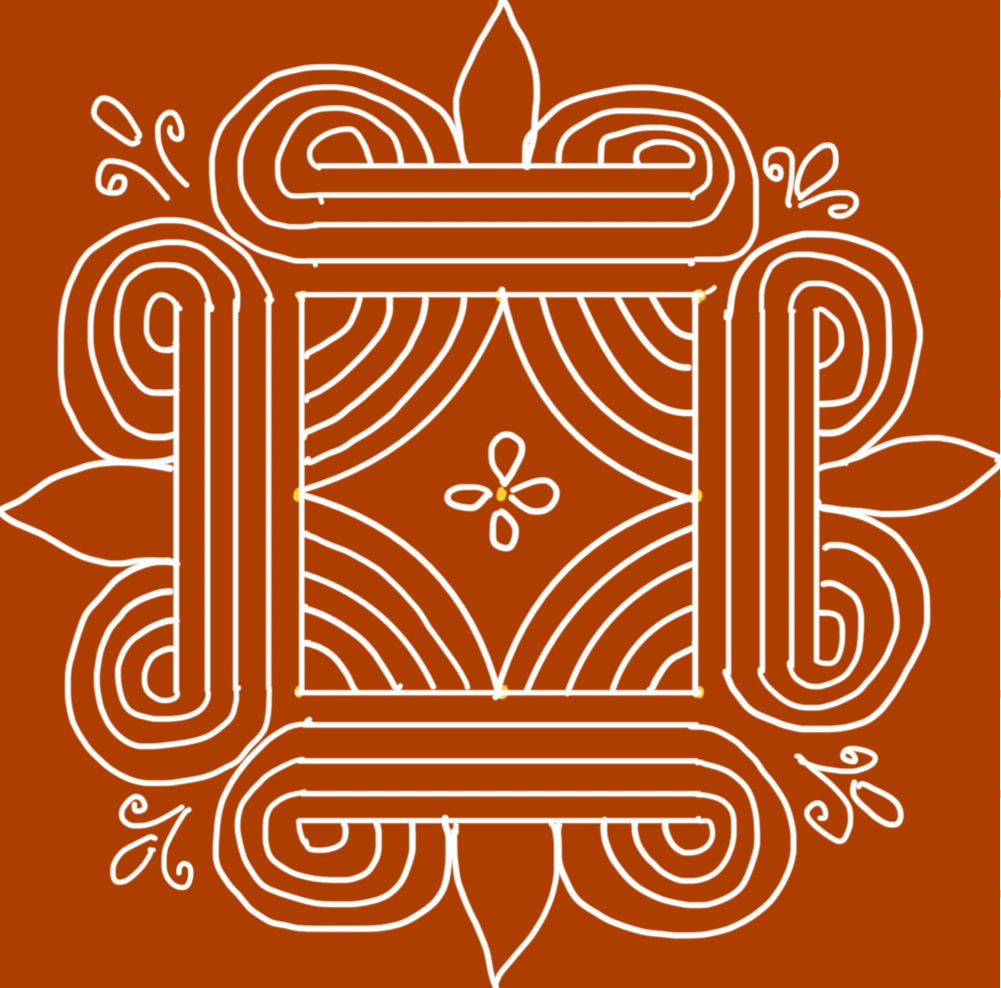
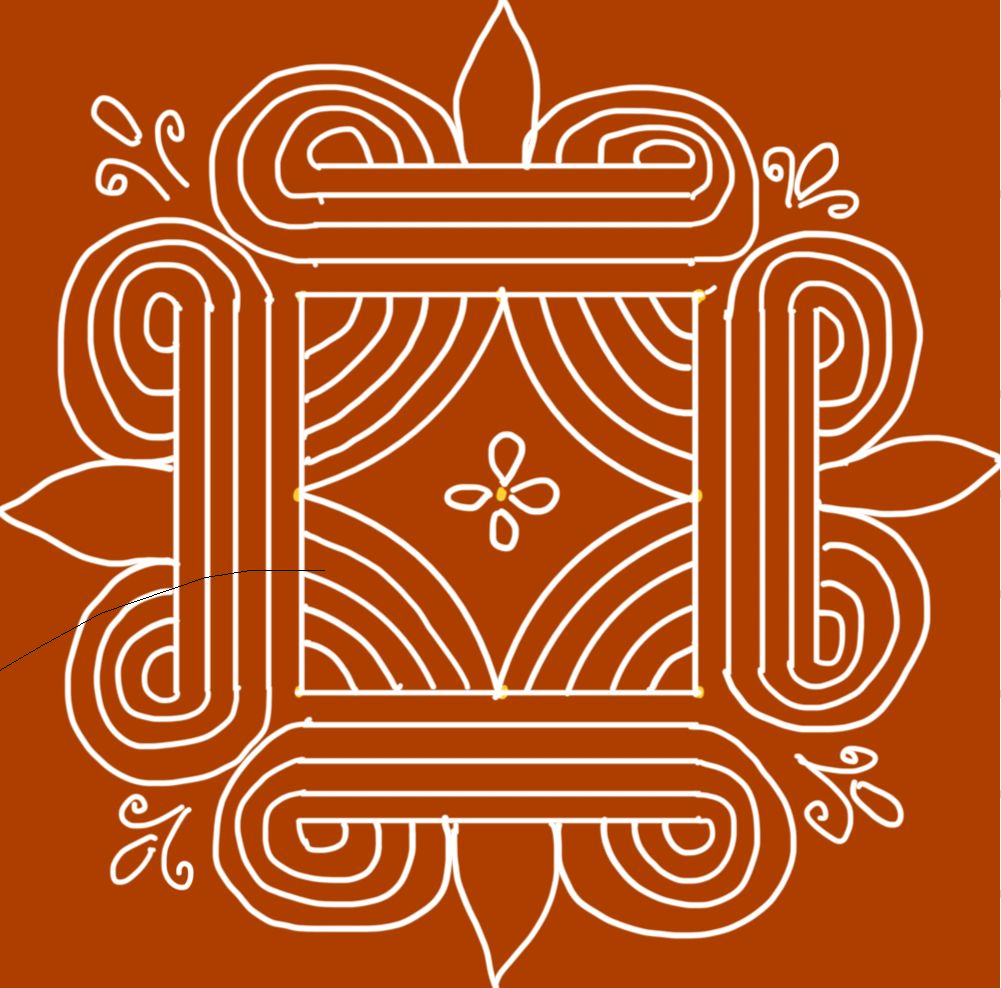
changed some order

Changed region(s): [[0.991, 0.4555, 1.0, 0.4858], [0.0929, 0.6073, 0.1239, 0.6377]]

diff --git a/Rangoli/about.html b/Rangoli/about.html
@@ -1,0 +1,47 @@
+<!DOCTYPE html>
+<html lang="en">
+<head>
+    <meta charset="UTF-8">
+    <meta name="viewport" content="width=device-width, initial-scale=1.0">
+    <title>Document</title>
+    
+    <link rel="stylesheet" href="about.css">
+    <link rel="stylesheet" href="style_nav.css" />
+   <link rel="stylesheet" href="https://fonts.googleapis.com/css2?family=Material+Symbols+Rounded:opsz,wght,FILL,GRAD@24,400,0,0" />
+   <script src="https://ajax.googleapis.com/ajax/libs/jquery/3.5.1/jquery.min.js"></script>
+</head>
+<body>
+    
+    <div id="nav-placeholder"></div>
+  
+    
+    <script>
+      $.get("navigation.html", function(data){
+        $("#nav-placeholder").replaceWith(data);
+      });
+    </script> 
+
+    <p>Muggu is an art form, in which patterns are created on the floor. 'Muggulu'<em>(plural form)</em> is a term used by people from a state called AndhraPradesh, India. Each state uses a different name for the floor art in their own language. <em><u>Click on the different states in the MAP below to see what a floor art is called in that particular state.</u></em> I prefer to use word  'Muggulu' or 'Kolam' in my website, as I am from  Southern part of  India. </p>
+    <div class="map-container">
+    <div class="header active"><h1>Muggulu</h1></div>
+    <div class="img-container"><img src="images/india-outline-map1.png" alt="india-outline-map" usemap="#indiamap" width="400" height="430" id="map"></div>
+    <map name="indiamap">
+        <area shape="poly" coords="145,254,162,259,168,270,196,285,218,265,202,288,190,300,165,311,165,350,137,345,126,325,130,300,130,276,145,254" target="Muggulu" href="AP" id="AP">
+        <area shape="poly" coords="64,247,78,226,113,236,160,228,172,251,163,260,131,272,107,290,84,308,74,315,66,288,63,267,64,247" target="Rangoli/ Sanskarbharti/ Bharti" title="Rangoli" href="maharashtra" id="Maharashtra">
+        <area shape="poly" coords="82,319,102,290,130,275,132,309,145,360,116,376,102,369,82,333,82,319" target="Rangoli" id="Karnataka">
+        <area shape="poly" coords="114,378,137,371,172,348,168,393,129,427,114,378" target="kolam" id="Tamilnadu">
+        <area shape="poly" coords="22,154,59,128,76,109,109,135,132,151,127,172,89,205,60,186,42,186,22,154" target="Mandana" id="Rajasthan">
+        <area shape="poly" coords="284,148,274,150,270,160,278,165,280,185,280,195,287,220,257,211,244,205,267,175,267,150,284,148" target="Alpana/ Alpona" id="WestBengal">
+        <area shape="poly" coords="212,142,245,150,266,152,264,168,263,187,243,196,254,208,236,212,220,210,209,190,213,166,212,142" target="Haripan/ Aripan" id="Bihar">
+        <area shape="poly" coords="218,213,233,213,252,213,264,221,258,240,232,259,209,268,191,281,199,254,208,233,218,213" target="Muruja/ Jhothi/ Chita" id="Odisha">
+        <area shape="poly" coords="127,172,117,172,144,155,149,178,190,182,219,212,207,231,202,251,183,282,169,230,112,233,89,206,127,172" target="Chowk Purana" id="Chhattisgarh/MadhyaPradesh">
+        <area shape="poly" coords="129,98,160,97,160,123,181,135,210,143,220,166,201,195,177,180,135,152,129,98" target="ChowkPujan" id="UttarPradesh">
+        <area shape="poly" coords="99,72,111,85,117,100,84,112,89,90,99,72" target="Chowk Poorana" id="Punjab">
+        <area shape="poly" coords="94,364,115,377,128,396,129,426,109,395,94,364" target="Pookkalam" id="Kerala">
+        <area shape="poly" coords="2,198,42,188,76,205,80,233,66,246,55,238,14,217,29,208,2,198" target="Saathiya/ Gahuli" id="Gujarat">
+        <area shape="poly" coords="128,99,133,87,136,72,118,62,99,71,111,84,128,99" target="aipan/ eipan" id="Uttarakhand">
+    </map>
+    </div>
+    <script src="about.js"></script>
+</body>
+</html>

diff --git a/Rangoli/navigation.html b/Rangoli/navigation.html
@@ -4,7 +4,7 @@
 <aside class="sidebar">
   <!-- Sidebar Header -->
   <header class="sidebar-header">
-    <a href="index.html" class="header-logo">
+    <a href="about.html" class="header-logo">
       <img src="icon.png" alt="Muggulu" />
     </a>
     <button class="sidebar-toggler">
@@ -29,7 +29,7 @@
 
 
       <li class="nav-item">
-        <a href="designs/about.html" class="nav-link">
+        <a href="./about.html" class="nav-link">
           <span class="material-symbols-rounded">keyboard_command_key</span>
           <span class="nav-label">About</span>
         </a>
@@ -40,20 +40,20 @@
       
       <!-- Dropdown 1 -->
       <li class="nav-item dropdown-container">
-        <a href="#" class="nav-link dropdown-toggle">
+        <a href="./index.html" class="nav-link">
           <span class="material-symbols-rounded">Sunny</span>
-          <span class="nav-label">Designs</span>
-          <span class="dropdown-icon material-symbols-rounded">keyboard_arrow_down</span>
+          <span class="nav-label">Types of Muggu</span>
+          <!-- <span class="dropdown-icon material-symbols-rounded">keyboard_arrow_down</span> -->
         </a>
         
         <!-- Dropdown1 Menu -->
         <ul class="dropdown-menu">
-          <li class="nav-item"><a class="nav-link dropdown-title">Designs</a></li>
+          <li class="nav-item"><a class="nav-link dropdown-title">Types of Muggu</a></li>
           <!-- <li class="nav-item"><a href="designs/about.html" class="nav-link dropdown-link">About Muggulu</a></li> -->
-          <li class="nav-item"><a href="designs/melika.html" class="nav-link dropdown-link">Melika Muggulu</a></li>
+          <!-- <li class="nav-item"><a href="designs/melika.html" class="nav-link dropdown-link">Melika Muggulu</a></li>
           <li class="nav-item"><a href="designs/chukka.html" class="nav-link dropdown-link">Chukkala Muggulu</a></li>
           <li class="nav-item"><a href="designs/geetha.html" class="nav-link dropdown-link">Geethala Muggulu</a></li>
-          <li class="nav-item"><a href="designs/sandhu.html" class="nav-link dropdown-link">Sandhu Chukka</a></li>
+          <li class="nav-item"><a href="designs/sandhu.html" class="nav-link dropdown-link">Sandhu Chukka</a></li> -->
         </ul>
       </li>
 

diff --git a/Rangoli/about.js b/Rangoli/about.js
@@ -1,0 +1,85 @@
+function popupModal(event) {
+
+    event.preventDefault();
+    const area = event.target;
+    console.log(event);
+    if (area.classList == "img-active") {
+        return;
+    }
+
+    else {
+
+        const windowName = area.target;
+
+        const textE1 = document.querySelector("h1")
+        textE1.textContent = windowName;
+        //removing previously clicked spots
+        const imgE1s = document.querySelectorAll(".img-active");
+        imgE1s.forEach(element => {
+            if (element.classList.contains("img-active")) {
+
+                element.remove();
+            }
+        });
+
+        //adding the newly clicked spot 
+        var x = event.clientX;
+        var y = event.clientY;
+
+        const imgE1 = document.createElement("img");
+
+        imgE1.src = "images/dot.png";
+        imgE1.classList.add("img-active");
+        imgE1.style.position = 'absolute';
+        imgE1.style.left = x - 25 + 'px';
+        imgE1.style.top = y - 25 + 'px';
+
+
+        area.appendChild(imgE1);
+
+    }
+
+}
+window.addEventListener('resize',()=>{
+    
+    const imgE1s = document.querySelectorAll(".img-active");
+        imgE1s.forEach(element => {
+            if (element.classList.contains("img-active")) {
+                console.log("hello2")
+                element.remove();
+            }
+        });
+        map = document.getElementById("AP");
+    
+    const imgE1 = document.createElement("img");
+    imgE1.src = "images/dot.png";
+    imgE1.classList.add("img-active");
+    
+    
+
+    imgE1.style.position = 'absolute';
+    imgE1.style.left =  map.offsetLeft +120+ 'px';
+    imgE1.style.top =  map.offsetTop-190 + 'px';
+    
+    map.appendChild(imgE1);
+});
+document.addEventListener("DOMContentLoaded", () => {
+  
+    
+    map = document.getElementById("AP");
+    
+    const imgE1 = document.createElement("img");
+    imgE1.src = "images/dot.png";
+    imgE1.classList.add("img-active");
+
+    
+    
+    imgE1.style.position = 'absolute';
+    imgE1.style.left =  map.offsetLeft +120+ 'px';
+    imgE1.style.top =  map.offsetTop-190 + 'px';
+    
+    map.appendChild(imgE1);
+   
+});
+document.querySelector("map").addEventListener("click", popupModal);
+

diff --git a/Rangoli/index.html b/Rangoli/index.html
@@ -12,6 +12,7 @@
    
    <link rel="stylesheet" href="https://fonts.googleapis.com/css2?family=Material+Symbols+Rounded:opsz,wght,FILL,GRAD@24,400,0,0" />
    <link rel="stylesheet" href="style_nav.css" />
+    <title>Types of Muggulu</title>
   </head>
  
   
@@ -29,11 +30,15 @@
  
 
   <div class="muggu-container">
-   <a href="designs/melika.html"> <img src="images/melika.png" alt="" title="melika"></a>
-   <a href="designs/geetha.html"><img src="images/padi.png" alt="" title="padi"></a>
-   <a href="designs/chukka.html"><img src="images/chukka.png" alt="" title="chukka"></a>
-   <a href="designs/sandhu.html"><img src="images/sandhu.png" alt="" title="sandhu"></a>
-  </div> 
+      <h1>Types of Muggu</h1><br>
+      <p>There are different types of Muggulu based on the way the dots are arranged. Here are some of the common types of Muggulu:</p>  <br>
+    <div class="types-of-muggu">   
+      <div class="grid-item1"><a href="designs/melika.html"> <img src="images/melika.png" alt="Melika"><div class="alt-text">Click About Melika Muggu</div></a></div>
+      <div class="grid-item2"><a href="designs/geetha.html"><img src="images/padi.png" alt="Geetha" ><div class="alt-text">Click About Geetha Muggu</div></a></div>
+      <div class="grid-item3"><a href="designs/chukka.html"><img src="images/chukka.png" alt="Chukka" ><div class="alt-text">Click About Chukka Muggu</div></a></div>
+      <div class="grid-item4"><a href="designs/sandhu.html"><img src="images/sandhu.png" alt="Sandhu" ><div class="alt-text">Click About Sandhu Muggu</div></a></div>
+      </div>  
+    </div> 
   <!-- <script src="index.js"></script>   -->
   </body> 
 

diff --git a/Rangoli/about.css b/Rangoli/about.css
@@ -1,0 +1,64 @@
+body{
+    margin:0;
+    display:flex;
+    flex-direction:column;
+    row-gap: 50px;
+    align-items: center;
+    justify-content: center;
+    background-color: rgb(248, 198, 100);
+}
+p{
+    margin:0 15px;
+    padding-left: 200px;
+    letter-spacing: 1px;
+    word-spacing: 5px;
+    font-size: 18px;
+    font-family:'Times New Roman', Times, serif;
+}
+h1{
+    color:brown;
+    text-align: center;
+    font-family: cursive;
+}
+em{
+    color:darkred;
+}
+.map-container{
+    
+    pointer-events:all;
+    overflow: hidden;  
+   
+}
+
+.img-container{
+    display:flex;
+    align-items: center;
+    justify-content: center;
+    pointer-events: all;
+}
+.nav-bar2{
+    display:grid;
+    /* position: fixed; */
+      background-color:rgb(248, 198, 100);
+      width: 100%; 
+      height:50px;
+      /*box-shadow: 0 4px 8px rgba(0,0,0,0.3);
+      transition: background-color 0.4s;*/
+      
+    }
+    .logo{ 
+        width:110px;
+        height: 55px;
+        align-items: center;
+        /*border-style:outset;
+        border-color:rgb(250, 201, 42);*/
+        border-spacing:1px;
+        
+      }
+      
+/* .img-active{
+    top:var(--yPos);
+    left:var(--xPos);
+    transform: translate(-50%,-50%);
+    z-index: 1;
+} */

diff --git a/Rangoli/index.css b/Rangoli/index.css
@@ -90,15 +90,62 @@ body{
 }
 
 .muggu-container{
-  display :grid;
+
+  height:100vh;
+  align-content: center;
+  justify-content: center;
+} 
+.types-of-muggu{
+  /* display:flex;
+  flex-direction:row;
+  flex-wrap:wrap;
+  gap:30px;
+  justify-content:center;
+  align-items:center;
+  margin-bottom:50px; */
+
+   display :grid;
   grid-template-columns: auto auto;
   row-gap: 5%;
   column-gap: 5%;
   height:100vh;
   align-content: center;
   justify-content: center;
-} 
+}
 img{
   width:300px;
   height:300px;
+}
+
+h1{
+    color:brown;
+    text-align: center;
+    font-family: cursive;
+}
+p{
+    margin:0 15px;
+    padding-left: 200px;
+    letter-spacing: 1px;
+    word-spacing: 5px;
+    font-size: 18px;
+    font-family:'Times New Roman', Times, serif;
+}
+
+.alt-text {
+  /* position: absolute;
+  bottom: 10px;
+  left: 50%; */
+  transform: translateX(-50%) scale(0);
+  background-color: rgba(0, 0, 0, 0.7);
+  color: #fff;
+  padding: 5px 10px;
+  border-radius: 5px;
+  font-size: 18px;
+  white-space: nowrap;
+  transition: transform 0.3s ease;
+  pointer-events: none;
+}
+.grid-item1:hover .alt-text, .grid-item2:hover .alt-text, .grid-item3:hover .alt-text, .grid-item4:hover .alt-text
+{
+  transform: translateX(-50%) scale(1);
 }

diff --git a/Rangoli/draw/Geethas/index.html b/Rangoli/draw/Geethas/index.html
@@ -15,7 +15,7 @@
             <div class="grid-item2"><a href="Geetha2/geetha2.html"><img class="image" src="Shelf/Books/book2.jpg" title="geetha2"></a></div>
             <div class="grid-item3"><a href="Geetha3/geetha3.html"><img class="image" src="Shelf/Books/book3.png" title="Geetha3"></a></div>
             <div class="grid-item4"><a href="Geetha4/geetha4.html"><img class="image" src="Shelf/Books/book4.jpg" title="Geetha4"></a></div>
-            <div class="grid-item5"><a href="#"><img class="image" src="Shelf/Books/book5.jpg" title="Rupa"></a></div>
+            <div class="grid-item5"><a href="Geetha5/geetha5.html"><img class="image" src="Shelf/Books/book5.jpg" title="Geetha5"></a></div>
             <div class="grid-item6"><a href="#"><img class="image" src="Shelf/Books/book6.jpg" title="Rupa"></a></div>
             <div class="grid-item7"><a href="#"><img class="image" src="Shelf/Books/book7.jpg" title="Melika1"></a></div>
             <div class="grid-item8"><a href="#"><img class="image" src="Shelf/Books/book8.jpg" title="Rupa"></a></div>

diff --git a/Rangoli/style_nav.css b/Rangoli/style_nav.css
@@ -14,6 +14,7 @@ body {
   background: linear-gradient(#F1F3FF, #CBD4FF);
 }
 
+
 .sidebar {
   position: fixed;
   top: 0;
